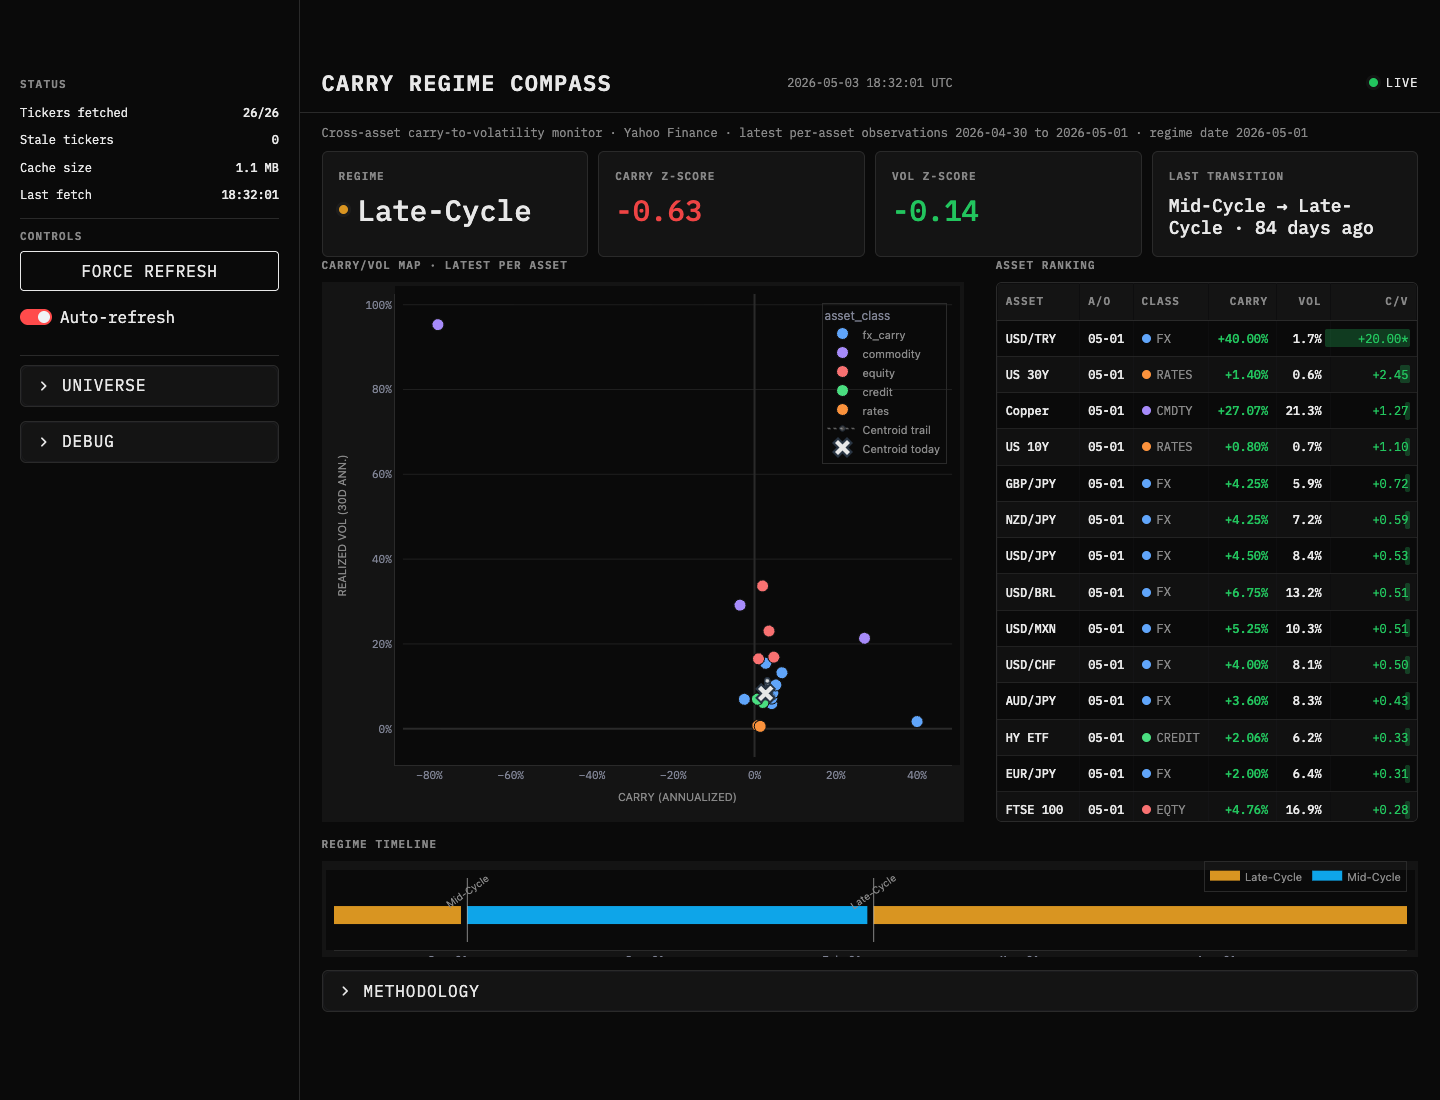
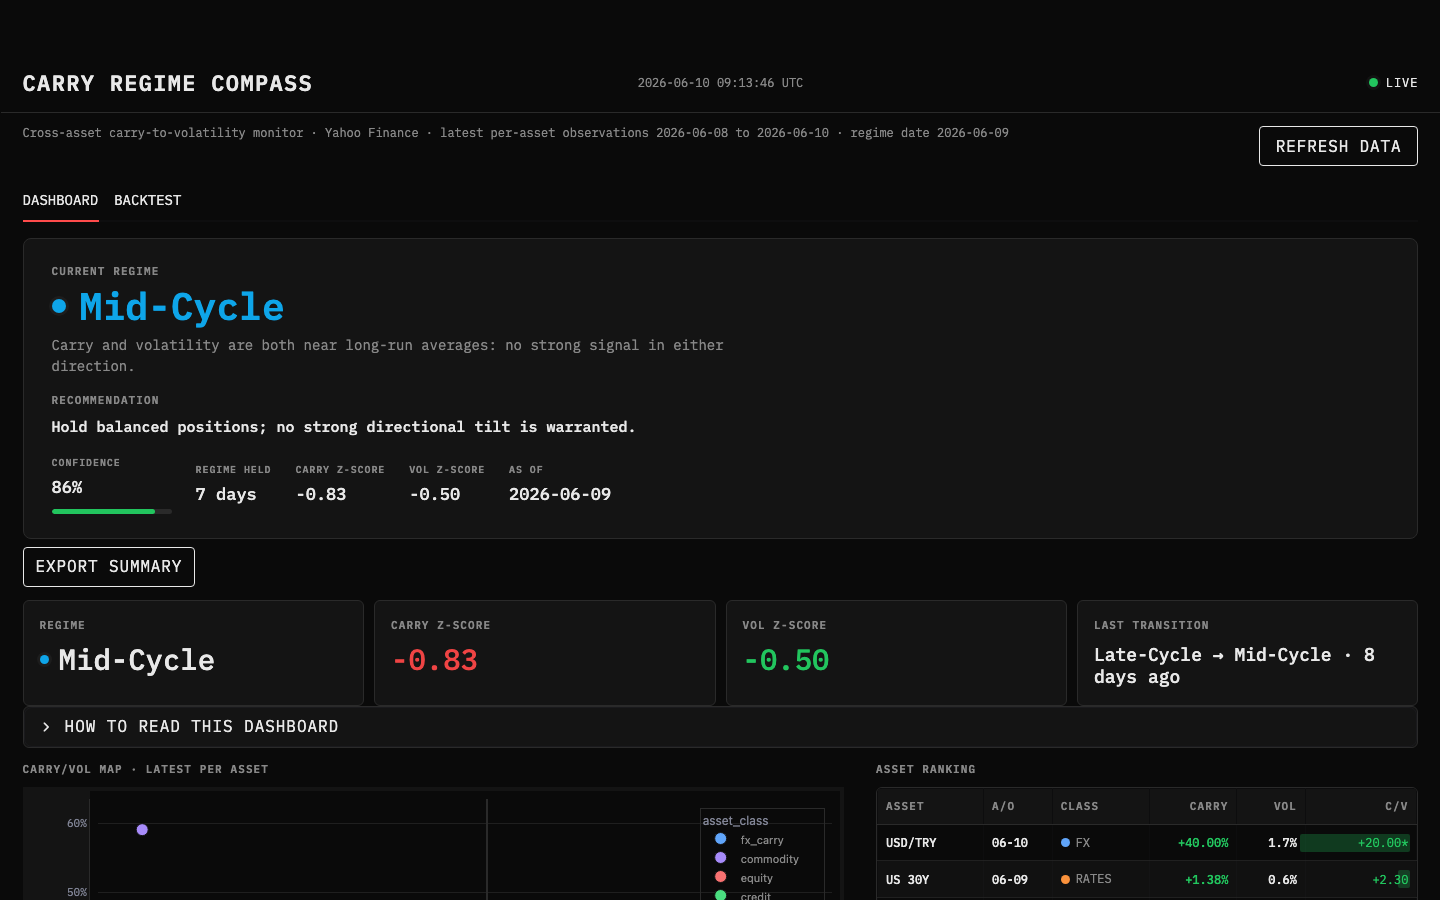
feat: remove sidebar, update README with screenshot
- Remove render_sidebar and all its helpers (Status, Controls, UNIVERSE,
  DEBUG panels); the topbar dot already covers data freshness
- Move "Refresh data" button inline next to the caption row
- Set initial_sidebar_state to collapsed
- Update README: add live app link, embed new screenshot, keep local
  setup instructions, remove install-only boilerplate

diff --git a/carry_compass/viz/components.py b/carry_compass/viz/components.py
@@ -2,7 +2,6 @@ from __future__ import annotations
 
 import datetime as dt
 import html
-from pathlib import Path
 from typing import Any
 
 import pandas as pd
@@ -10,8 +9,6 @@ import plotly.express as px
 import plotly.graph_objects as go
 import streamlit as st
 
-from carry_compass.cache import PriceCache
-from carry_compass.config.schema import AppConfig, AssetClass
 from carry_compass.decision.call import HeadlineCall
 from carry_compass.regime.transitions import Transition
 from carry_compass.viz.theme import (
@@ -30,12 +27,6 @@ from carry_compass.viz.theme import (
 
 def _regime_label(value: object) -> str:
     return str(getattr(value, "value", value))
-
-
-def _asset_class_label(value: object) -> str:
-    if isinstance(value, AssetClass):
-        value = value.value
-    return str(value).replace("_", " ").upper()
 
 
 def _asset_class_short(value: object) -> str:
@@ -71,25 +62,6 @@ def _status(fetch_results: dict[str, Any]) -> tuple[str, str]:
         return "DELAYED", WARNING
     return "LIVE", POSITIVE
 
-
-def _cache_size_mb(cache: PriceCache) -> float:
-    path = Path(cache.sqlite_path)
-    if not path.exists():
-        return 0.0
-    return path.stat().st_size / (1024 * 1024)
-
-
-def _latest_fetch_time(fetch_results: dict[str, Any]) -> str:
-    if not fetch_results:
-        return "--:--:--"
-    return dt.datetime.now(dt.UTC).strftime("%H:%M:%S")
-
-
-def _latest_panel() -> pd.DataFrame:
-    value = st.session_state.get("crc_latest_panel")
-    if isinstance(value, pd.DataFrame):
-        return value
-    return pd.DataFrame()
 
 
 def _generate_export_html(call: HeadlineCall) -> str:
@@ -610,86 +582,3 @@ def render_methodology() -> None:
         st.latex(r"z_t=\frac{x_t-\mu(x)}{\sigma(x)}")
 
 
-def render_sidebar(cache: PriceCache, fetch_results: dict[str, Any], cfg: AppConfig) -> bool:
-    """Render the full sidebar and return whether the user requested a force refresh."""
-    latest = _latest_panel()
-    total = len(cfg.universe)
-    fetched = sum(
-        1 for result in fetch_results.values() if not getattr(result, "df", pd.DataFrame()).empty
-    )
-    stale = sum(1 for result in fetch_results.values() if getattr(result, "stale", False))
-
-    with st.sidebar:
-        st.markdown('<div class="crc-sidebar-title">Status</div>', unsafe_allow_html=True)
-        stale_class = "crc-neg" if stale else ""
-        st.markdown(
-            f"""
-            <div class="crc-sidebar-row"><span>Tickers fetched</span><strong>{fetched}/{total}</strong></div>
-            <div class="crc-sidebar-row"><span>Stale tickers</span><strong class="{stale_class}">{stale}</strong></div>
-            <div class="crc-sidebar-row"><span>Cache size</span><strong>{_cache_size_mb(cache):.1f} MB</strong></div>
-            <div class="crc-sidebar-row"><span>Last fetch</span><strong>{_latest_fetch_time(fetch_results)}</strong></div>
-            """,
-            unsafe_allow_html=True,
-        )
-
-        data_source = st.session_state.get("crc_data_source", "live")
-        source_label = "SNAPSHOT" if data_source.startswith("snapshot:") else "LIVE FETCH"
-        source_color = WARNING if data_source.startswith("snapshot:") else POSITIVE
-        st.markdown(
-            f'<div class="crc-sidebar-row"><span>Data source</span>'
-            f'<strong style="color:{source_color};">{html.escape(source_label)}</strong></div>',
-            unsafe_allow_html=True,
-        )
-
-        st.markdown('<div class="crc-sidebar-section"></div>', unsafe_allow_html=True)
-        st.markdown('<div class="crc-sidebar-title">Controls</div>', unsafe_allow_html=True)
-        force = st.button("FORCE REFRESH", width="stretch")
-        auto_refresh = st.toggle(
-            "Auto-refresh",
-            value=st.session_state.get("crc_auto_refresh", True),
-            key="crc_auto_refresh_toggle",
-        )
-        st.session_state["crc_auto_refresh"] = auto_refresh
-
-        st.markdown('<div class="crc-sidebar-section"></div>', unsafe_allow_html=True)
-        with st.expander("UNIVERSE", expanded=False):
-            for asset_class in AssetClass:
-                assets = [asset for asset in cfg.universe if asset.asset_class == asset_class]
-                if not assets:
-                    continue
-                st.markdown(
-                    f'<div class="crc-sidebar-title">{_asset_class_label(asset_class)}</div>',
-                    unsafe_allow_html=True,
-                )
-                for asset in assets:
-                    row = latest[latest["asset"].eq(asset.label)] if not latest.empty else pd.DataFrame()
-                    if row.empty and asset.ticker.endswith("=X") and not latest.empty:
-                        body = asset.ticker.replace("=X", "")
-                        row = latest[latest["asset"].eq(f"{body[:3]}/{body[3:]}")]
-                    values = "--"
-                    if not row.empty:
-                        item = row.iloc[0]
-                        values = f'{float(item["carry"]):+.2%} / {float(item["vol"]):.1%}'
-                    st.markdown(
-                        f"""
-                        <div class="crc-universe-row">
-                            <span>{html.escape(asset.ticker)}</span>
-                            <span>{html.escape(asset.label)}</span>
-                            <span>{html.escape(values)}</span>
-                        </div>
-                        """,
-                        unsafe_allow_html=True,
-                    )
-
-        with st.expander("DEBUG", expanded=False):
-            if st.button("View logs", width="stretch"):
-                log_path = Path("logs/carry_compass.log")
-                if log_path.exists():
-                    lines = log_path.read_text(errors="replace").splitlines()[-50:]
-                    st.code("\n".join(lines) or "No log lines found.")
-                else:
-                    st.code("logs/carry_compass.log not found.")
-            if st.button("View cache stats", width="stretch"):
-                st.dataframe(cache.stats(), width="stretch", hide_index=True)
-
-    return force

diff --git a/carry_compass/viz/app.py b/carry_compass/viz/app.py
@@ -29,7 +29,6 @@ from carry_compass.viz.components import (
     render_ranking_table,
     render_regime_timeline,
     render_scatter_dark,
-    render_sidebar,
     render_topbar,
 )
 from carry_compass.viz.pages.backtest import render_backtest_tab
@@ -39,7 +38,7 @@ st.set_page_config(
     page_title="Carry Regime Compass",
     layout="wide",
     page_icon="🧭",
-    initial_sidebar_state="expanded",
+    initial_sidebar_state="collapsed",
 )
 
 
@@ -158,11 +157,6 @@ def main() -> None:
 
     if panel.empty or regimes.empty:
         render_topbar(fetch_results, now_utc)
-        force = render_sidebar(cache, fetch_results, cfg)
-        if force:
-            _load_panel.clear()
-            st.session_state["crc_force_refresh_next"] = True
-            st.rerun()
         st.error("No data available. Check logs/carry_compass.log.")
         return
 
@@ -174,22 +168,24 @@ def main() -> None:
     st.session_state["crc_latest_panel"] = latest
 
     render_topbar(fetch_results, now_utc)
-    force = render_sidebar(cache, fetch_results, cfg)
-    if force:
-        _load_panel.clear()
-        st.session_state["crc_force_refresh_next"] = True
-        st.rerun()
 
-    st.markdown(
-        f"""
-        <div class="crc-page-caption">
-            Cross-asset carry-to-volatility monitor · Yahoo Finance ·
-            latest per-asset observations {latest_min_date.strftime("%Y-%m-%d")}
-            to {last_date.strftime("%Y-%m-%d")} · regime date {regime_date.strftime("%Y-%m-%d")}
-        </div>
-        """,
-        unsafe_allow_html=True,
-    )
+    col_cap, col_btn = st.columns([0.88, 0.12])
+    with col_cap:
+        st.markdown(
+            f"""
+            <div class="crc-page-caption">
+                Cross-asset carry-to-volatility monitor · Yahoo Finance ·
+                latest per-asset observations {latest_min_date.strftime("%Y-%m-%d")}
+                to {last_date.strftime("%Y-%m-%d")} · regime date {regime_date.strftime("%Y-%m-%d")}
+            </div>
+            """,
+            unsafe_allow_html=True,
+        )
+    with col_btn:
+        if st.button("Refresh data", use_container_width=True):
+            _load_panel.clear()
+            st.session_state["crc_force_refresh_next"] = True
+            st.rerun()
 
     last_regime_row = display_regimes.iloc[-1]
     current_regime = _regime_label(

diff --git a/README.md b/README.md
@@ -2,11 +2,15 @@
 
 A cross-asset macro regime monitor that asks one question every day: are global markets rewarding carry, or punishing it? The answer drives a four-state regime label (Risk-On, Mid-Cycle, Late-Cycle, Deleveraging) with a walk-forward backtest to show whether that label would have been worth trading on.
 
+**Live app:** [carry-regime-compass.streamlit.app](https://carry-regime-compass.streamlit.app)
+
+![Carry Regime Compass dashboard](docs/assets/carry-regime-compass-dashboard.png)
+
 ---
 
 ## The problem
 
-Carry signals span every asset class, FX, rates, credit, equities, and commodities, but each is quoted in different units. A trader watching FX carry in isolation misses the signal from widening HY spreads or collapsing equity dividend yields. This project aggregates the carry-to-volatility ratio across all five asset classes into a single cross-asset centroid and classifies it against its own rolling history.
+Carry signals span every asset class - FX, rates, credit, equities, and commodities - but each is quoted in different units. A trader watching FX carry in isolation misses the signal from widening HY spreads or collapsing equity dividend yields. This project aggregates the carry-to-volatility ratio across all five asset classes into a single cross-asset centroid and classifies it against its own rolling history.
 
 ## The approach
 
@@ -35,7 +39,7 @@ The backtest applies a simple regime-conditional allocation rule:
 
 The UI shows an equity curve versus equal-weight benchmark, split into in-sample and out-of-sample windows. The default history is 400 days, which covers roughly one business cycle phase. Increase `history_days` in `carry_compass/config/universe.yaml` to 2000+ to see a longer track record including 2022.
 
-**Honest caveats**: regime thresholds are not fit from data, they are researcher-set and tested post-hoc. The signal is explanatory, not predictive in a strict statistical sense. Do not use this to size positions.
+**Honest caveats**: regime thresholds are not fit from data - they are researcher-set and tested post-hoc. The signal is explanatory, not predictive in a strict statistical sense. Do not use this to size positions.
 
 ---
 
@@ -43,7 +47,7 @@ The UI shows an equity curve versus equal-weight benchmark, split into in-sample
 
 ### Prerequisites
 
-- Python 3.11 (tested against 3.11 only; 3.12 works but is not CI-tested)
+- Python 3.11
 - Optional: `FRED_API_KEY` environment variable for macro overlays
 
 ### Setup
